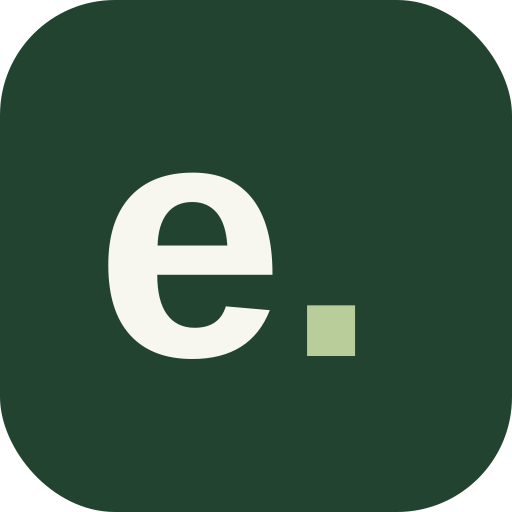
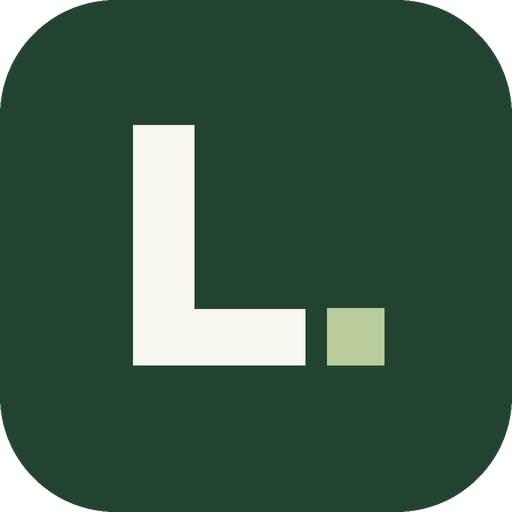
Add files via upload

diff --git a/app.js b/app.js
@@ -43,8 +43,12 @@ function openModal(title,content){$('#modalTitle').textContent=title;$('#modalBo
 function closeModal(){stopDictation();stopScan();$('#overlay').hidden=true;$('#modalBody').innerHTML='';}
 function formVal(name){return document.querySelector(`[name="${name}"]`)?.value?.trim()||'';}
 const openedLists=new Set(), shownDone=new Set();
+// Store metadata travels with shared lists under the existing Firestore schema.
+const TODO_STORE = 'Listen. · To-do';
+const isTodo = list => list?.store === TODO_STORE;
+
 function render(){let a=active();if(!a){state=initial();a=active();save();}
- const host=$('#listCards');const typed={};host.querySelectorAll('.card-add input').forEach(i=>{if(i.value)typed[i.closest('.list-card').dataset.list]=i.value;});const focusList=document.activeElement?.closest?.('.card-add')?.closest('.list-card')?.dataset.list;host.innerHTML=state.lists.map((l,index)=>{const all=listItems(l.id),todo=all.filter(x=>!x.done),done=all.filter(x=>x.done);return `<details name="einkauf-lists" class="list-card" data-color="${listColor(l,index)}" data-list="${esc(l.id)}" ${openedLists.has(l.id)?'open':''}><summary><span class="list-name">${esc(l.name)}</span><span class="open-count">${todo.length} offen</span><span class="card-chevron" aria-hidden="true"></span></summary><div class="card-top"><div class="card-meta"><span>${esc(l.sharedId?(cloudUser?(navigator.onLine?'Gemeinsam · verbunden':'Gemeinsam · offline'):'Gemeinsam · Anmeldung nötig'):'Privat · auf diesem Gerät')}</span><button data-card-action="menu" aria-label="Liste verwalten">⋯</button></div><div class="card-actions"><button data-card-action="scan">Zettel importieren</button><button class="gurkerl-copy" data-card-action="copy-gurkerl" ${todo.length ? '' : 'disabled'}>Für Gurkerl kopieren</button></div></div><div class="card-body"><form class="card-add"><input name="article" aria-label="Artikel für ${esc(l.name)}" placeholder="z. B. 500g Tofu" maxlength="140" autocomplete="off"><button class="dictation-mic" data-card-action="dictate" aria-label="Artikel diktieren" type="button"><span aria-hidden="true">🎙</span></button><button aria-label="Artikel hinzufügen" type="submit">+</button></form><div class="items">${departmentHTML(todo)}</div>${!todo.length?`<p class="empty">${done.length?'Alles erledigt.':'Deine Liste ist noch leer.'}</p>`:''}${done.length?`<details class="done-accordion" ${shownDone.has(l.id)?'open':''}><summary>Erledigt · ${done.length}<span class="card-chevron" aria-hidden="true"></span></summary><div class="items done-items">${done.map(itemHTML).join('')}</div></details>`:''}<div class="card-secondary"><button data-card-action="recipe">Aus Rezept</button><button data-card-action="share">Teilen</button><button data-card-action="export">Weitere Exporte</button></div></div></details>`;}).join('');
+ const host=$('#listCards');const typed={};host.querySelectorAll('.card-add input').forEach(i=>{if(i.value)typed[i.closest('.list-card').dataset.list]=i.value;});const focusList=document.activeElement?.closest?.('.card-add')?.closest('.list-card')?.dataset.list;host.innerHTML=state.lists.map((l,index)=>{const all=listItems(l.id),todo=all.filter(x=>!x.done),done=all.filter(x=>x.done);return `<details name="einkauf-lists" class="list-card" data-kind="${isTodo(l)?'todo':'shopping'}" data-color="${listColor(l,index)}" data-list="${esc(l.id)}" ${openedLists.has(l.id)?'open':''}><summary><span class="list-name">${esc(l.name)}</span><span class="open-count">${todo.length} offen</span><span class="card-chevron" aria-hidden="true"></span></summary><div class="card-top"><div class="card-meta"><span>${esc(l.sharedId?(cloudUser?(navigator.onLine?'Gemeinsam · verbunden':'Gemeinsam · offline'):'Gemeinsam · Anmeldung nötig'):'Privat · auf diesem Gerät')}</span><button data-card-action="menu" aria-label="Liste verwalten">⋯</button></div><div class="card-actions"><button data-card-action="scan">Zettel importieren</button><button class="gurkerl-copy" data-card-action="copy-gurkerl" ${todo.length ? '' : 'disabled'}>Für Gurkerl kopieren</button></div></div><div class="card-body"><form class="card-add"><input name="article" aria-label="${isTodo(l)?'Aufgabe':'Artikel'} für ${esc(l.name)}" placeholder="${isTodo(l)?'Aufgabe hinzufügen':'z. B. 500g Tofu'}" maxlength="140" autocomplete="off"><button class="dictation-mic" data-card-action="dictate" aria-label="Artikel diktieren" type="button"><span aria-hidden="true">🎙</span></button><button aria-label="Artikel hinzufügen" type="submit">+</button></form><div class="items">${isTodo(l)?todo.map(itemHTML).join(''):departmentHTML(todo)}</div>${!todo.length?`<p class="empty">${done.length?'Alles erledigt.':'Deine Liste ist noch leer.'}</p>`:''}${done.length?`<details class="done-accordion" ${shownDone.has(l.id)?'open':''}><summary>Erledigt · ${done.length}<span class="card-chevron" aria-hidden="true"></span></summary><div class="items done-items">${done.map(itemHTML).join('')}</div></details>`:''}<div class="card-secondary"><button data-card-action="recipe">Aus Rezept</button><button data-card-action="share">Teilen</button><button data-card-action="export">Weitere Exporte</button></div></div></details>`;}).join('');
  host.querySelectorAll('.list-card').forEach(c=>{const v=typed[c.dataset.list];if(v!=null)c.querySelector('.card-add input').value=v;if(focusList&&c.dataset.list===focusList)c.querySelector('.card-add input').focus();});
  host.querySelectorAll('.list-card').forEach(el=>el.addEventListener('toggle',()=>{const id=el.dataset.list;if(el.open){if(!openedLists.has(id)){openedLists.clear();openedLists.add(id);state.activeId=id;save();window.scrollTo(0,0);}}else openedLists.delete(id);}));
  host.querySelectorAll('.done-accordion').forEach(el=>el.addEventListener('toggle',()=>{const id=el.closest('.list-card').dataset.list;el.open?shownDone.add(id):shownDone.delete(id);}));
@@ -77,7 +81,7 @@ function itemDepartment(item) {
 
 function categoryModal(id) {
   const item = state.items.find(entry => entry.id === id);
-  if (!item) return;
+  if (!item || isTodo(state.lists.find(list => list.id === item.listId))) return;
   const options = departments.map(([label]) =>
     `<button class="category-choice" type="button" data-department="${esc(label)}"
       aria-pressed="${item.department === label}"><span>${esc(label)}</span></button>`
@@ -122,19 +126,26 @@ function itemInput(item) {
 function itemHTML(x){return `<div class="item ${x.done?'done':''}" data-id="${esc(x.id)}"><button class="check ${x.done?'checked':''}" data-act="toggle" data-id="${esc(x.id)}" aria-label="${x.done?'Nicht erledigt':'Erledigt'}">${x.done?'✓':''}</button><button class="item-main" data-act="edit" data-id="${esc(x.id)}">${esc(x.text)}${x.amount?`<em>${esc(x.amount)}</em>`:''}</button><button class="item-edit" data-act="edit" data-id="${esc(x.id)}" aria-label="Bearbeiten">⋯</button></div>`;}
 function persist(){save();render();}
 function useList(id){if(state.lists.some(x=>x.id===id)){state.activeId=id;persist();}}
-function addItem(text,amount=''){const a=active(),t=text.trim();if(!t)return;const parsed=splitQuantity(t);let item={id:uid(),listId:a.id,text:(amount?t:parsed.text).slice(0,140),amount:String(amount||parsed.amount).trim().slice(0,100),done:false,updatedAt:Date.now()};state.items.push(item);persist();syncItem(a,item,'set');}
+function addItem(text,amount=''){const a=active(),t=text.trim();if(!t)return;const parsed=isTodo(a)?{text:t,amount:''}:splitQuantity(t);let item={id:uid(),listId:a.id,text:(amount?t:parsed.text).slice(0,140),amount:String(amount||parsed.amount).trim().slice(0,100),done:false,updatedAt:Date.now()};state.items.push(item);persist();syncItem(a,item,'set');}
 function editItem(id,text,amount){const item=state.items.find(i=>i.id===id);if(!item||!text.trim())return;item.text=text.trim().slice(0,140);item.amount=amount.trim().slice(0,100);item.updatedAt=Date.now();persist();syncItem(state.lists.find(l=>l.id===item.listId),item,'set');}
 function toggleItem(id){const item=state.items.find(x=>x.id===id);if(!item)return;item.done=!item.done;item.updatedAt=Date.now();persist();syncItem(state.lists.find(l=>l.id===item.listId),item,'set');}
 function deleteItem(id){const item=state.items.find(x=>x.id===id);if(!item)return;const l=state.lists.find(x=>x.id===item.listId);state.items=state.items.filter(x=>x.id!==id);persist();syncItem(l,item,'delete');}
 function moveItem(id,targetListId){const item=state.items.find(x=>x.id===id),oldList=state.lists.find(x=>x.id===item?.listId),dest=state.lists.find(x=>x.id===targetListId);if(!item||!dest||!oldList||oldList.id===dest.id)return;syncItem(oldList,item,'delete');item.listId=dest.id;item.updatedAt=Date.now();syncItem(dest,item,'set');persist();alertToast('Artikel in „'+dest.name+'“ verschoben');}
 function createList(name,store,color){if(!name.trim())return;const l={id:uid(),name:name.trim().slice(0,70),store:store.trim().slice(0,60)||'Alle Geschäfte',sharedId:null,color};state.lists.push(l);state.activeId=l.id;openedLists.clear();openedLists.add(l.id);persist();}
 function newListModal(){
- openModal('Neue Einkaufsliste',`<form id="listForm"><label class="field">Name der Liste<input name="name" placeholder="z. B. Wocheneinkauf" maxlength="70" required autofocus></label><label class="field">Geschäft<select name="store" id="newStore">${storeOptions()}<option value="__custom__">Anderes Geschäft …</option></select></label><label class="field hidden" id="customStoreLabel">Geschäft eingeben<input name="customStore" maxlength="60" placeholder="z. B. Wochenmarkt"></label>${colorField(listColor({},state.lists.length))}<div class="modal-actions"><button class="primary wide" type="submit">Liste erstellen</button></div></form>`);
- const storeSelect=$('#newStore'), customLabel=$('#customStoreLabel');
+ openModal('Neue Liste',`<form id="listForm"><fieldset class="list-types item-department"><legend>Listentyp</legend><div class="list-type-options"><label><input type="radio" name="listType" value="shopping" checked><span class="category-choice"><span>Einkauf</span></span></label><label><input type="radio" name="listType" value="todo"><span class="category-choice"><span>To-do</span></span></label></div></fieldset><label class="field">Name der Liste<input name="name" placeholder="z. B. Wocheneinkauf" maxlength="70" required autofocus></label><label class="field" id="newStoreLabel">Geschäft<select name="store" id="newStore">${storeOptions()}<option value="__custom__">Anderes Geschäft …</option></select></label><label class="field hidden" id="customStoreLabel">Geschäft eingeben<input name="customStore" maxlength="60" placeholder="z. B. Wochenmarkt"></label>${colorField(listColor({},state.lists.length))}<div class="modal-actions"><button class="primary wide" type="submit">Liste erstellen</button></div></form>`);
+ const form=$('#listForm'), typeSelect=form.elements.listType, storeSelect=$('#newStore'), customLabel=$('#customStoreLabel');
+ form.addEventListener('change',event=>{
+   if(event.target.name!=='listType')return;
+   const todo=typeSelect.value==='todo';
+   $('#newStoreLabel').classList.toggle('hidden',todo);
+   customLabel.classList.toggle('hidden',todo||storeSelect.value!=='__custom__');
+   $('#listForm').elements.name.placeholder=todo?'z. B. Schule':'z. B. Wocheneinkauf';
+ });
  storeSelect.onchange=()=>{customLabel.classList.toggle('hidden',storeSelect.value!=='__custom__');if(!customLabel.classList.contains('hidden'))customLabel.querySelector('input').focus();};
- $('#listForm').onsubmit=e=>{e.preventDefault();const store=storeSelect.value==='__custom__'?formVal('customStore'):storeSelect.value;if(!store){alertToast('Bitte ein Geschäft eingeben');return;}createList(formVal('name'),store,e.currentTarget.elements.listColor.value);closeModal();alertToast('Liste erstellt');};
+ $('#listForm').onsubmit=e=>{e.preventDefault();const store=typeSelect.value==='todo'?TODO_STORE:(storeSelect.value==='__custom__'?formVal('customStore'):storeSelect.value);if(!store||(typeSelect.value!=='todo'&&store===TODO_STORE)){alertToast('Bitte ein anderes Geschäft eingeben');return;}createList(formVal('name'),store,e.currentTarget.elements.listColor.value);closeModal();alertToast('Liste erstellt');};
 }
-function itemModal(id){const x=state.items.find(z=>z.id===id);if(!x)return;const otherListOptions=state.lists.map(l=>`<option value="${esc(l.id)}" ${l.id===x.listId?'selected':''}>${esc(l.name)} (${esc(l.store)})</option>`).join('');openModal('Artikel bearbeiten',`<form id="itemForm"><label class="field">Artikel<input name="name" value="${esc(itemInput(x))}" maxlength="243" placeholder="z. B. 500g Tofu" required></label><label class="field">Einkaufsliste / Geschäft<select name="targetList">${otherListOptions}</select></label><div class="modal-actions"><button class="primary" type="submit">Speichern</button><button class="secondary" id="itemCategoryBtn" type="button">Kategorie ändern</button><button class="danger" id="deleteItemBtn" type="button">Löschen</button></div></form>`);$('#itemForm').onsubmit=e=>{e.preventDefault();const value=formVal('name');if(value!==itemInput(x)){const parsed=splitQuantity(value);editItem(id,parsed.text,parsed.amount);}const dest=formVal('targetList');if(dest && dest!==x.listId)moveItem(id,dest);closeModal();};$('#itemCategoryBtn').onclick=()=>categoryModal(id);$('#deleteItemBtn').onclick=()=>{if(confirm('Artikel löschen?')){deleteItem(id);closeModal();}};}
+function itemModal(id){const x=state.items.find(z=>z.id===id);if(!x)return;const todo=isTodo(state.lists.find(list=>list.id===x.listId));const otherListOptions=state.lists.map(l=>`<option value="${esc(l.id)}" ${l.id===x.listId?'selected':''}>${esc(l.name)} (${isTodo(l)?'To-do':esc(l.store)})</option>`).join('');openModal(todo?'Aufgabe bearbeiten':'Artikel bearbeiten',`<form id="itemForm"><label class="field">Artikel<input name="name" value="${esc(itemInput(x))}" maxlength="243" placeholder="z. B. 500g Tofu" required></label><label class="field">Liste<select name="targetList">${otherListOptions}</select></label><div class="modal-actions"><button class="primary" type="submit">Speichern</button>${todo?'':'<button class="secondary" id="itemCategoryBtn" type="button">Kategorie ändern</button>'}<button class="danger" id="deleteItemBtn" type="button">Löschen</button></div></form>`);$('#itemForm').onsubmit=e=>{e.preventDefault();const value=formVal('name');if(value!==itemInput(x)){const parsed=todo?{text:value,amount:''}:splitQuantity(value);editItem(id,parsed.text,parsed.amount);}const dest=formVal('targetList');if(dest && dest!==x.listId)moveItem(id,dest);closeModal();};if(!todo)$('#itemCategoryBtn').onclick=()=>categoryModal(id);$('#deleteItemBtn').onclick=()=>{if(confirm('Artikel löschen?')){deleteItem(id);closeModal();}};}
 function listModal(){let l=active();openModal('Liste verwalten',`
 <div class="list-menu-grid">
   <button id="syncListBtn" class="menu-action" type="button"><span>♧</span> Liste mit Partnerin verbinden <small>QR-Code / Synchronisierung</small></button>
@@ -143,13 +154,13 @@ function listModal(){let l=active();openModal('Liste verwalten',`
   <button id="cutEntriesBtn" class="menu-action" type="button"><span>↗</span> Offene Einträge verschieben <small>Dann andere Liste auswählen und einfügen</small></button>
   <button id="pasteEntriesBtn" class="menu-action" type="button"><span>↙</span> Einträge einfügen <small>Aus anderer Liste oder als Text</small></button>
   <button id="shareEntriesBtn" class="menu-action" type="button"><span>◇</span> Einträge teilen <small>Über das Android-Teilen-Menü</small></button>
-  <button id="exportFromMenuBtn" class="menu-action" type="button"><span>⇧</span> Export für Gurkerl <small>Liste kopieren, Text oder CSV</small></button>
+  <button id="exportFromMenuBtn" ${isTodo(l)?'hidden':''} class="menu-action" type="button"><span>⇧</span> Export für Gurkerl <small>Liste kopieren, Text oder CSV</small></button>
 </div>
 <hr class="divider">
-<form id="listEditForm"><label class="field">Listenname<input name="name" maxlength="70" value="${esc(l.name)}" required></label><label class="field">Geschäft<input name="store" list="storeSuggestions" maxlength="60" value="${esc(l.store)}" autocomplete="off"><datalist id="storeSuggestions">${storeOptions()}</datalist></label>${colorField(listColor(l))}<div class="modal-actions"><button class="primary" type="submit">Speichern</button><button class="secondary" id="clearDoneBtn" type="button">Erledigte entfernen</button></div></form>
+<form id="listEditForm"><label class="field">Listenname<input name="name" maxlength="70" value="${esc(l.name)}" required></label>${isTodo(l)?'':`<label class="field">Geschäft<input name="store" list="storeSuggestions" maxlength="60" value="${esc(l.store)}" autocomplete="off"><datalist id="storeSuggestions">${storeOptions()}</datalist></label>`}${colorField(listColor(l))}<div class="modal-actions"><button class="primary" type="submit">Speichern</button><button class="secondary" id="clearDoneBtn" type="button">Erledigte entfernen</button></div></form>
 <hr class="divider"><button class="danger" id="clearListBtn" type="button">Liste leeren</button> <button class="danger" id="deleteListBtn" type="button">Liste löschen</button>
 <p class="info">Bei einer geteilten Liste sehen alle verbundenen Personen Änderungen an den Artikeln. Synchronisierung funktioniert erst nach der Firebase-Einrichtung.</p>`);
- $('#listEditForm').onsubmit=e=>{e.preventDefault();l.name=formVal('name').slice(0,70);l.store=formVal('store').slice(0,60)||'Alle Geschäfte';l.color=e.currentTarget.elements.listColor.value;persist();syncMeta(l);closeModal();};
+ $('#listEditForm').onsubmit=e=>{e.preventDefault();l.name=formVal('name').slice(0,70);if(!isTodo(l))l.store=formVal('store').slice(0,60)||'Alle Geschäfte';l.color=e.currentTarget.elements.listColor.value;persist();syncMeta(l);closeModal();};
  $('#clearDoneBtn').onclick=()=>{const done=listItems(l.id).filter(i=>i.done);if(!done.length){alertToast('Nichts zu entfernen');return;}if(confirm(`${done.length} erledigte Artikel löschen?`)){done.forEach(i=>{state.items=state.items.filter(z=>z.id!==i.id);syncItem(l,i,'delete');});persist();closeModal();}};
  $('#deleteListBtn').onclick=()=>{if(state.lists.length===1){alertToast('Mindestens eine Liste behalten');return;}if(confirm('Liste wirklich von diesem Gerät entfernen?')){stopListen(l.sharedId);state.lists=state.lists.filter(z=>z.id!==l.id);state.items=state.items.filter(z=>z.listId!==l.id);state.activeId=state.lists[0].id;persist();closeModal();}};
  $('#cloneListBtn').onclick=cloneCurrentList;
@@ -209,7 +220,7 @@ function pasteEntries(){
 async function shareEntries(){
  const l=active(),text=textFor(l);
  if(!text){alertToast('Keine offenen Einträge');return;}
- const message=l.name+' ('+l.store+')\n\n'+text;
+ const message=l.name+(isTodo(l)?'':' ('+l.store+')')+'\n\n'+text;
  closeModal();
  if(window.AndroidEinkauf?.shareText){window.AndroidEinkauf.shareText(message);return;}
  if(navigator.share){try{await navigator.share({title:l.name,text:message});}catch(e){}return;}
@@ -272,7 +283,8 @@ function stopDictation() {
 }
 
 function dictationModal(listId) {
-  openModal('Liste diktieren', `<p class="info">Sprich die Artikel einfach hintereinander, etwa „Milch Brot 500 Gramm Tofu“. Du kannst die Zeilen vor dem Übernehmen korrigieren.</p>
+  const todo = isTodo(state.lists.find(list => list.id === listId));
+  openModal('Liste diktieren', `<p class="info">${todo?'Diktiere eine Aufgabe pro Satz. Du kannst die Zeilen vor dem Übernehmen korrigieren.':'Sprich die Artikel einfach hintereinander, etwa „Milch Brot 500 Gramm Tofu“. Du kannst die Zeilen vor dem Übernehmen korrigieren.'}</p>
     <p id="dictationStatus" class="scan-status" role="status"></p>
     <label class="field">Artikel prüfen<textarea id="dictationText" rows="6" placeholder="Ein Artikel pro Zeile"></textarea></label>
     <div class="modal-actions">
@@ -288,7 +300,7 @@ function dictationModal(listId) {
   const Recognition = window.SpeechRecognition || window.webkitSpeechRecognition;
   const keyboardHint = 'Tippe ins Textfeld und nutze das Mikro deiner Tastatur. Setze jeden Artikel in eine eigene Zeile.';
   add.onclick = () => {
-    const count = addMultiple(dictationLines(input.value), listId);
+    const count = addMultiple(todo ? input.value : dictationLines(input.value), listId);
     if (count) {
       closeModal();
       alertToast(count + ' Artikel hinzugefügt');
@@ -323,7 +335,7 @@ function dictationModal(listId) {
       if (activeDictation !== recognition) return;
       for (let index = event.resultIndex; index < event.results.length; index++) {
         const result = event.results[index];
-        if (result.isFinal) transcripts[index] = dictationLines(result[0].transcript, true);
+        if (result.isFinal) transcripts[index] = todo ? result[0].transcript.trim().replace(/([.!?])\s+/g, '$1\n') : dictationLines(result[0].transcript, true);
       }
       input.value = [previousText, ...transcripts].filter(Boolean).join('\n');
     };
@@ -352,7 +364,7 @@ function dictationModal(listId) {
 }
 
 function splitQuantity(raw){const s=String(raw||'').trim();const note=s.match(/^(.+?)\s+—\s+(.+)$/);if(note)return {text:note[1].trim(),amount:note[2].trim()};const prefix=s.match(/^(\d+(?:[,.]\d+)?\s*(?:kg|g|l|liter|ml|stk\.?|st\.?|packungen?|stück|x|becher|flaschen?|dosen?|bund|päckchen|el|tl))\s+(.+)$/i);if(prefix)return {amount:prefix[1].trim(),text:prefix[2].trim()};const simple=s.match(/^(\d+(?:[,.]\d+)?)\s*[x×]\s+(.+)$/i);if(simple)return {amount:simple[1]+' ×',text:simple[2].trim()};const numeric=s.match(/^(\d+(?:[,.]\d+)?)\s+(.+)$/);if(numeric)return {amount:numeric[1],text:numeric[2].trim()};return {amount:'',text:s};}
-function addMultiple(raw,listId){const lines=cleanLines(raw),l=state.lists.find(x=>x.id===listId)||active();let added=0,skipped=0;const seen=new Set(listItems(l.id).filter(i=>!i.done).map(i=>`${i.text.toLocaleLowerCase('de').trim()}|${i.amount.toLocaleLowerCase('de').trim()}`));for(const line of lines){const parsed=splitQuantity(line);const key=`${parsed.text.toLocaleLowerCase('de').trim()}|${parsed.amount.toLocaleLowerCase('de').trim()}`;if(seen.has(key)){skipped++;continue;}seen.add(key);const item={id:uid(),listId:l.id,text:parsed.text.slice(0,140),amount:parsed.amount.slice(0,100),done:false,updatedAt:Date.now()};state.items.push(item);syncItem(l,item,'set');added++;}persist();if(skipped)alertToast(`${skipped} doppelte Artikel übersprungen`);return added;}
+function addMultiple(raw,listId){const lines=cleanLines(raw),l=state.lists.find(x=>x.id===listId)||active();let added=0,skipped=0;const seen=new Set(listItems(l.id).filter(i=>!i.done).map(i=>`${i.text.toLocaleLowerCase('de').trim()}|${i.amount.toLocaleLowerCase('de').trim()}`));for(const line of lines){const parsed=isTodo(l)?{text:line,amount:''}:splitQuantity(line);const key=`${parsed.text.toLocaleLowerCase('de').trim()}|${parsed.amount.toLocaleLowerCase('de').trim()}`;if(seen.has(key)){skipped++;continue;}seen.add(key);const item={id:uid(),listId:l.id,text:parsed.text.slice(0,140),amount:parsed.amount.slice(0,100),done:false,updatedAt:Date.now()};state.items.push(item);syncItem(l,item,'set');added++;}persist();if(skipped)alertToast(`${skipped} doppelte Artikel übersprungen`);return added;}
 function textFor(list,openOnly=true){const items=listItems(list.id).filter(x=>!openOnly||!x.done);return items.map(x=>`${x.amount?x.amount+' ':''}${x.text}`).join('\n');}
 async function copyCurrent(){let t=textFor(active());if(!t){alertToast('Keine offenen Artikel zum Kopieren');return;}const full=`Finde bitte möglichst günstige passende Produkte für diese Einkaufsliste und füge sie meinem Warenkorb hinzu. Vergleiche den Grundpreis, beachte Mengen und frage bei Unklarheiten nach:\n\n${t}`;try{await clipboardText(full);alertToast('Für Gurkerl / Maia kopiert');}catch(e){openModal('Liste zum Kopieren',`<textarea class="editarea" readonly id="copyArea">${esc(full)}</textarea><p class="info">Text markieren und kopieren.</p>`);$('#copyArea').select();}}
 function downloadFile(filename,text,type){if(window.AndroidEinkauf?.saveFile){window.AndroidEinkauf.saveFile(filename,text,type);return;}const b=new Blob([text],{type});let url=URL.createObjectURL(b),a=document.createElement('a');a.href=url;a.download=filename;document.body.append(a);a.click();a.remove();setTimeout(()=>URL.revokeObjectURL(url),5000);}
@@ -460,7 +472,7 @@ listCards.addEventListener('pointerdown', event => {
   heldItemButton = null;
   cancelItemPress();
   const button = event.target.closest('.item-main');
-  if (!button) return;
+  if (!button || button.closest('[data-kind=todo]')) return;
   const {pointerId, clientX, clientY} = event;
   const timer = setTimeout(() => {
     cancelItemPress();

diff --git a/index.html b/index.html
@@ -4,18 +4,18 @@
 <meta charset="utf-8">
 <meta name="viewport" content="width=device-width,initial-scale=1,viewport-fit=cover">
 <meta name="theme-color" content="#ede9df">
-<meta name="description" content="Einkauf: deine gemeinsame, praktische Einkaufsliste im Bento-Design.">
+<meta name="description" content="Listen. für Einkauf und To-dos.">
 
 <link rel="icon" type="image/svg+xml" href="./icon.svg">
 <link rel="apple-touch-icon" href="./icon-192.png">
 <link rel="manifest" href="./manifest.webmanifest">
 <link rel="stylesheet" href="./styles.css">
-<title>Einkauf · Gemeinsam einkaufen</title>
+<title>Listen.</title>
 </head>
 <body>
 <div id="app">
-  <header class="app-header"><img src="./icon-192.png" alt="Einkauf" class="app-logo"><button id="newListBtn" class="new-list-button">+ Neue Liste</button><button id="settingsBtn" class="settings-white" aria-label="Einstellungen und Backup"><svg viewBox="0 0 24 24" fill="none" stroke="currentColor" stroke-width="1.7" aria-hidden="true"><path d="m9 3-.6 2.2-2 .9-2-.7-2 3.4 1.6 1.6v2.3L2.4 14l2 3.4 2.1-.6 2 .9L9 20h4l.6-2.3 2-.9 2.1.6 2-3.4-1.6-1.3v-2.3L19.7 9l-2-3.5-2.1.6-2-.9L13 3Z"/><circle cx="11" cy="11.5" r="3.2"/></svg></button></header>
-  <main class="bento-main"><section id="listCards" aria-label="Deine Einkaufslisten"></section><footer><span id="saveStatus">Lokal gespeichert</span></footer></main>
+  <header class="app-header"><img src="./icon-192.png" alt="Listen." class="app-logo"><button id="newListBtn" class="new-list-button">+ Neue Liste</button><button id="settingsBtn" class="settings-white" aria-label="Einstellungen und Backup"><svg viewBox="0 0 24 24" fill="none" stroke="currentColor" stroke-width="1.7" aria-hidden="true"><path d="m9 3-.6 2.2-2 .9-2-.7-2 3.4 1.6 1.6v2.3L2.4 14l2 3.4 2.1-.6 2 .9L9 20h4l.6-2.3 2-.9 2.1.6 2-3.4-1.6-1.3v-2.3L19.7 9l-2-3.5-2.1.6-2-.9L13 3Z"/><circle cx="11" cy="11.5" r="3.2"/></svg></button></header>
+  <main class="bento-main"><section id="listCards" aria-label="Deine Listen"></section><footer><span id="saveStatus">Lokal gespeichert</span></footer></main>
 </div>
 <div id="toast" role="status" aria-live="polite"></div>
 <div class="overlay" id="overlay" hidden><div class="modal" id="modal" role="dialog" aria-modal="true" aria-labelledby="modalTitle"><div class="modal-header"><h2 id="modalTitle"></h2><button class="close-modal" id="closeModal" aria-label="Schließen">×</button></div><div id="modalBody"></div></div></div>

diff --git a/styles.css b/styles.css
@@ -298,3 +298,45 @@ body {
   content: "✓";
   margin-inline-start: 8px;
 }
+
+.list-card[data-kind="todo"] .gurkerl-copy,
+.list-card[data-kind="todo"] [data-card-action="recipe"],
+.list-card[data-kind="todo"] [data-card-action="export"],
+#exportFromMenuBtn[hidden] {
+  display: none;
+}
+
+.list-types {
+  border: 0;
+  margin: 0 0 14px;
+  padding: 0;
+}
+.list-types legend { margin-bottom: 6px; }
+.list-type-options {
+  display: grid;
+  grid-template-columns: repeat(2, minmax(0, 1fr));
+  gap: 8px;
+}
+.list-type-options label { position: relative; cursor: pointer; }
+.list-type-options input {
+  position: absolute;
+  width: 1px;
+  height: 1px;
+  opacity: 0;
+}
+.list-types .category-choice {
+  display: grid;
+  place-items: center;
+  min-height: 44px;
+  padding: 6px;
+  border: 2px solid var(--line);
+  border-radius: 12px;
+}
+.list-type-options input:checked + .category-choice {
+  border-color: var(--ink);
+  background-color: var(--paper);
+}
+.list-type-options input:focus-visible + .category-choice {
+  outline: 2px solid var(--ink);
+  outline-offset: 2px;
+}

diff --git a/sw.js b/sw.js
@@ -1,6 +1,6 @@
 // Einkauf PWA: lokale Grunddateien vorhalten. Externe Firebase-/OCR-Skripte
 // werden bewusst NICHT zwischengespeichert.
-const CACHE = 'einkauf-bento-v20';
+const CACHE = 'einkauf-bento-v22';
 const ASSETS = [
   './', './index.html', './styles.css', './permanent-marker.ttf', './app.js', './qr.js',
   './firebase-config.js', './manifest.webmanifest',
